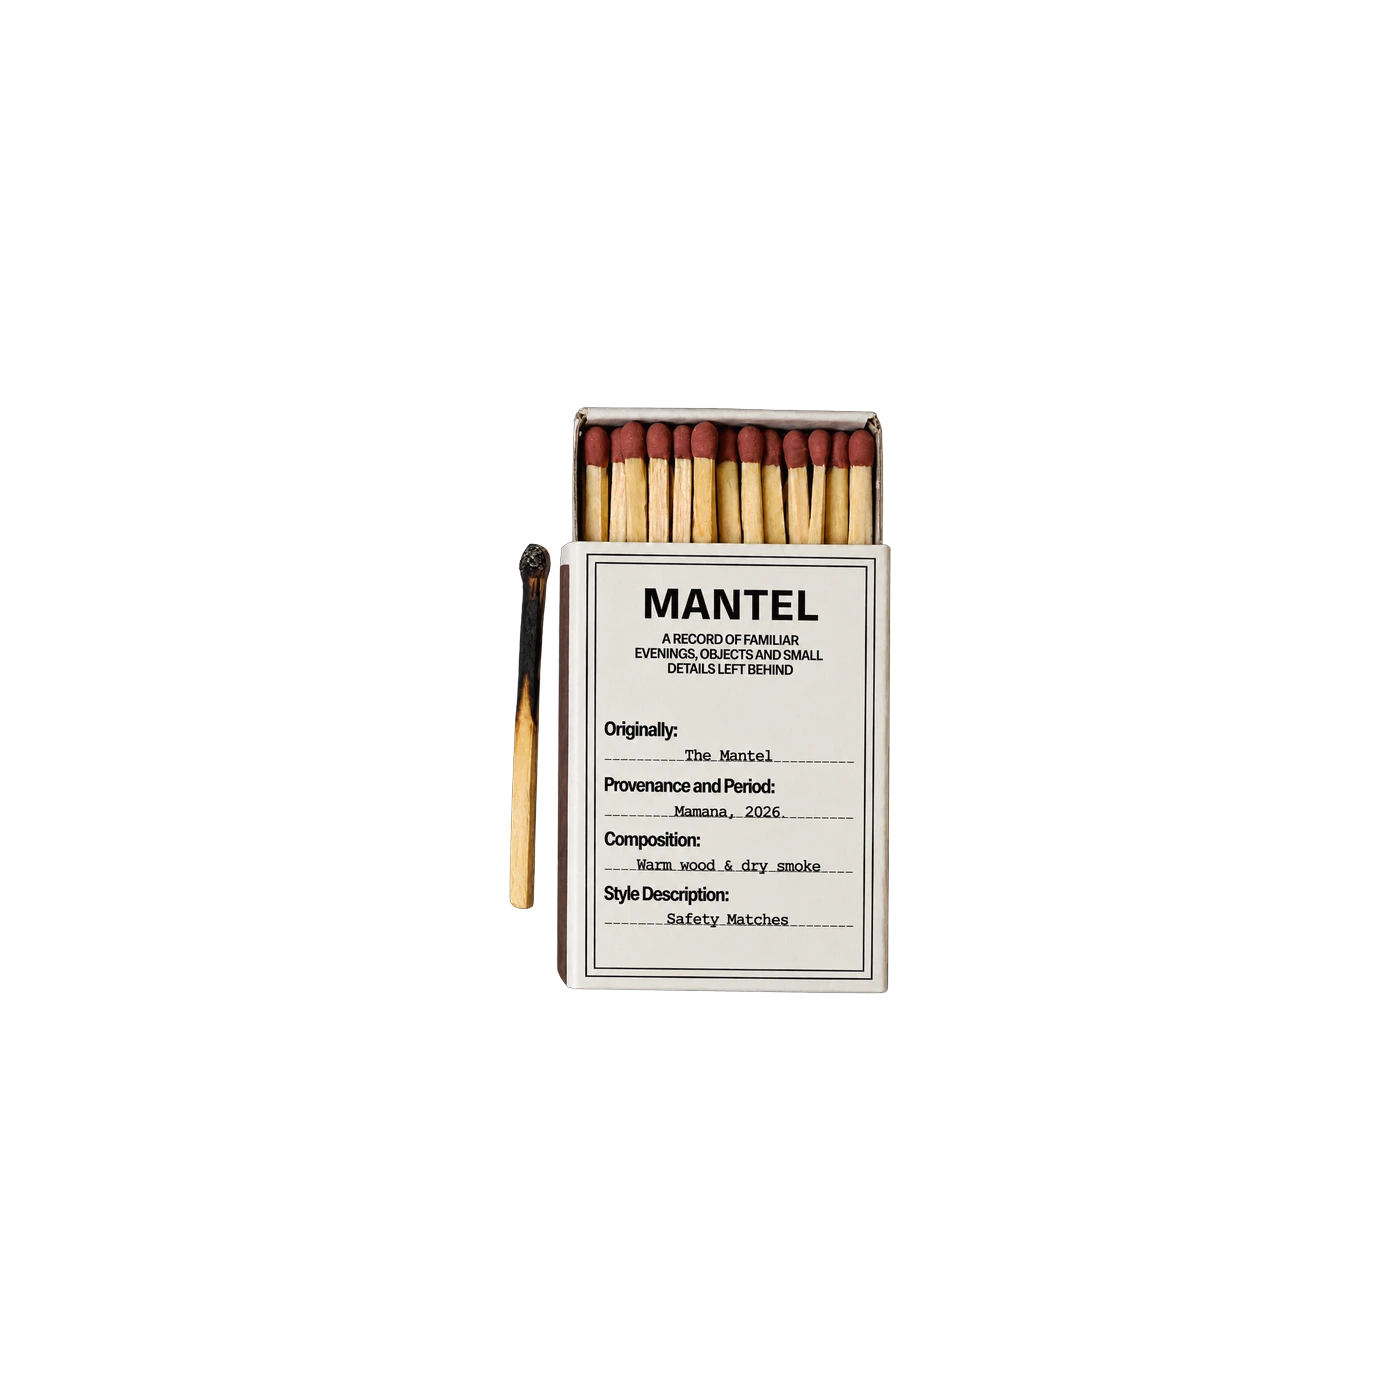
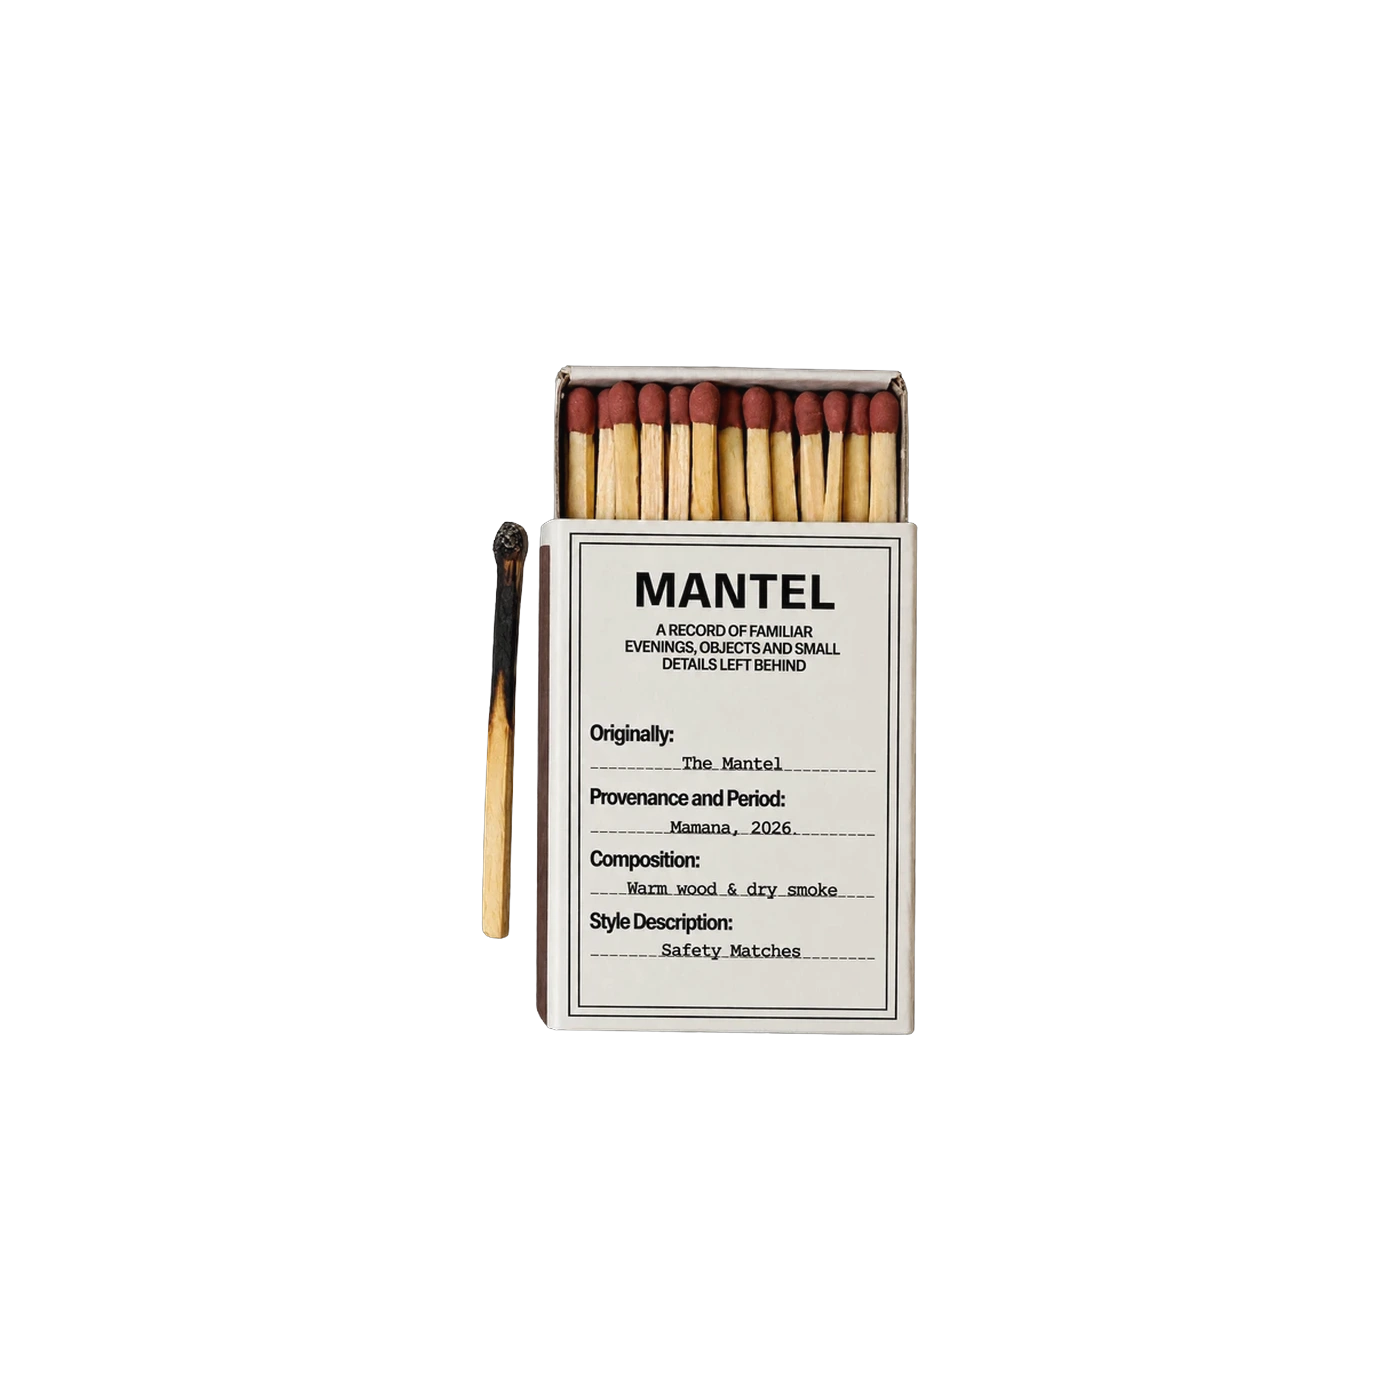
Bump match sticks fill 42% to 48%
Read too small on the shelf card next to the new box photos. Re-centred
both faces at the higher fill on the same 1400x1400 canvas.

Claude-Session: https://claude.ai/code/session_01YNooiFC1k2Jrv3Fm1HcV4i

Changed region(s): [[0.3379, 0.2457, 0.6757, 0.7371]]

diff --git a/src/app/content/retail.ts b/src/app/content/retail.ts
@@ -108,8 +108,8 @@ export type CartLine = {
  *
  *                   tote            65%   (~38cm, the largest object here)
  *                   candle sticks   58%   (~25cm, tall but slender)
+ *                   match sticks    48%   (~8cm box)
  *                   candles (tin)   45%   (~7.5cm, a squat tin)
- *                   match sticks    42%   (~8cm box)
  *                   lighters        40%   (~8cm, the smallest)
  *
  *                 Floored around 40% rather than scaled all the way down
@@ -119,8 +119,10 @@ export type CartLine = {
  *                 time (58→65, 50→58) after the product page — a full-height
  *                 mobile frame, not a shelf tile — made them read too small
  *                 on their own page even though the relative order was
- *                 right; a new product's fill should slot into this table by
- *                 its own real size, not default to a number here.
+ *                 right; match sticks got the same bump a third time
+ *                 (42→48) once new box photos replaced the old ones — a new
+ *                 product's fill should slot into this table by its own real
+ *                 size, not default to a number here.
  *
  * A replacement has to meet both, or it will stand out from the rest.
  *
